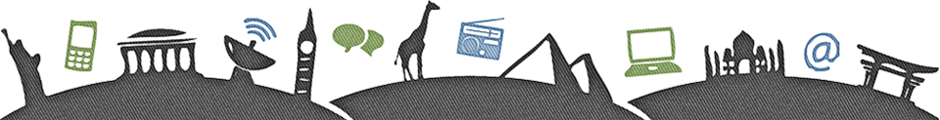
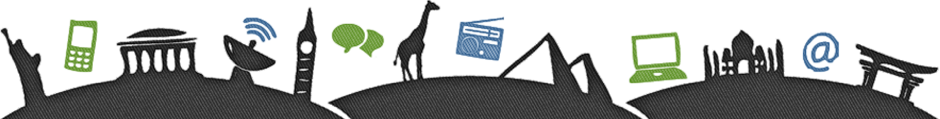
Update home illustration image.

Changed region(s): [[0.0, 0.0, 1.0, 1.0], [0.0, 0.2521, 0.0309, 0.3025]]

diff --git a/sites/all/themes/custom/incil_omega_html5/css/global.css b/sites/all/themes/custom/incil_omega_html5/css/global.css
@@ -301,7 +301,7 @@ a:hover {
  * Illustration
  */
 .front .region-top {
-  padding-top: 120px;
+  padding-top: 119px;
   background: transparent url('../images/home-illustration.png') top center no-repeat;
 }
 
